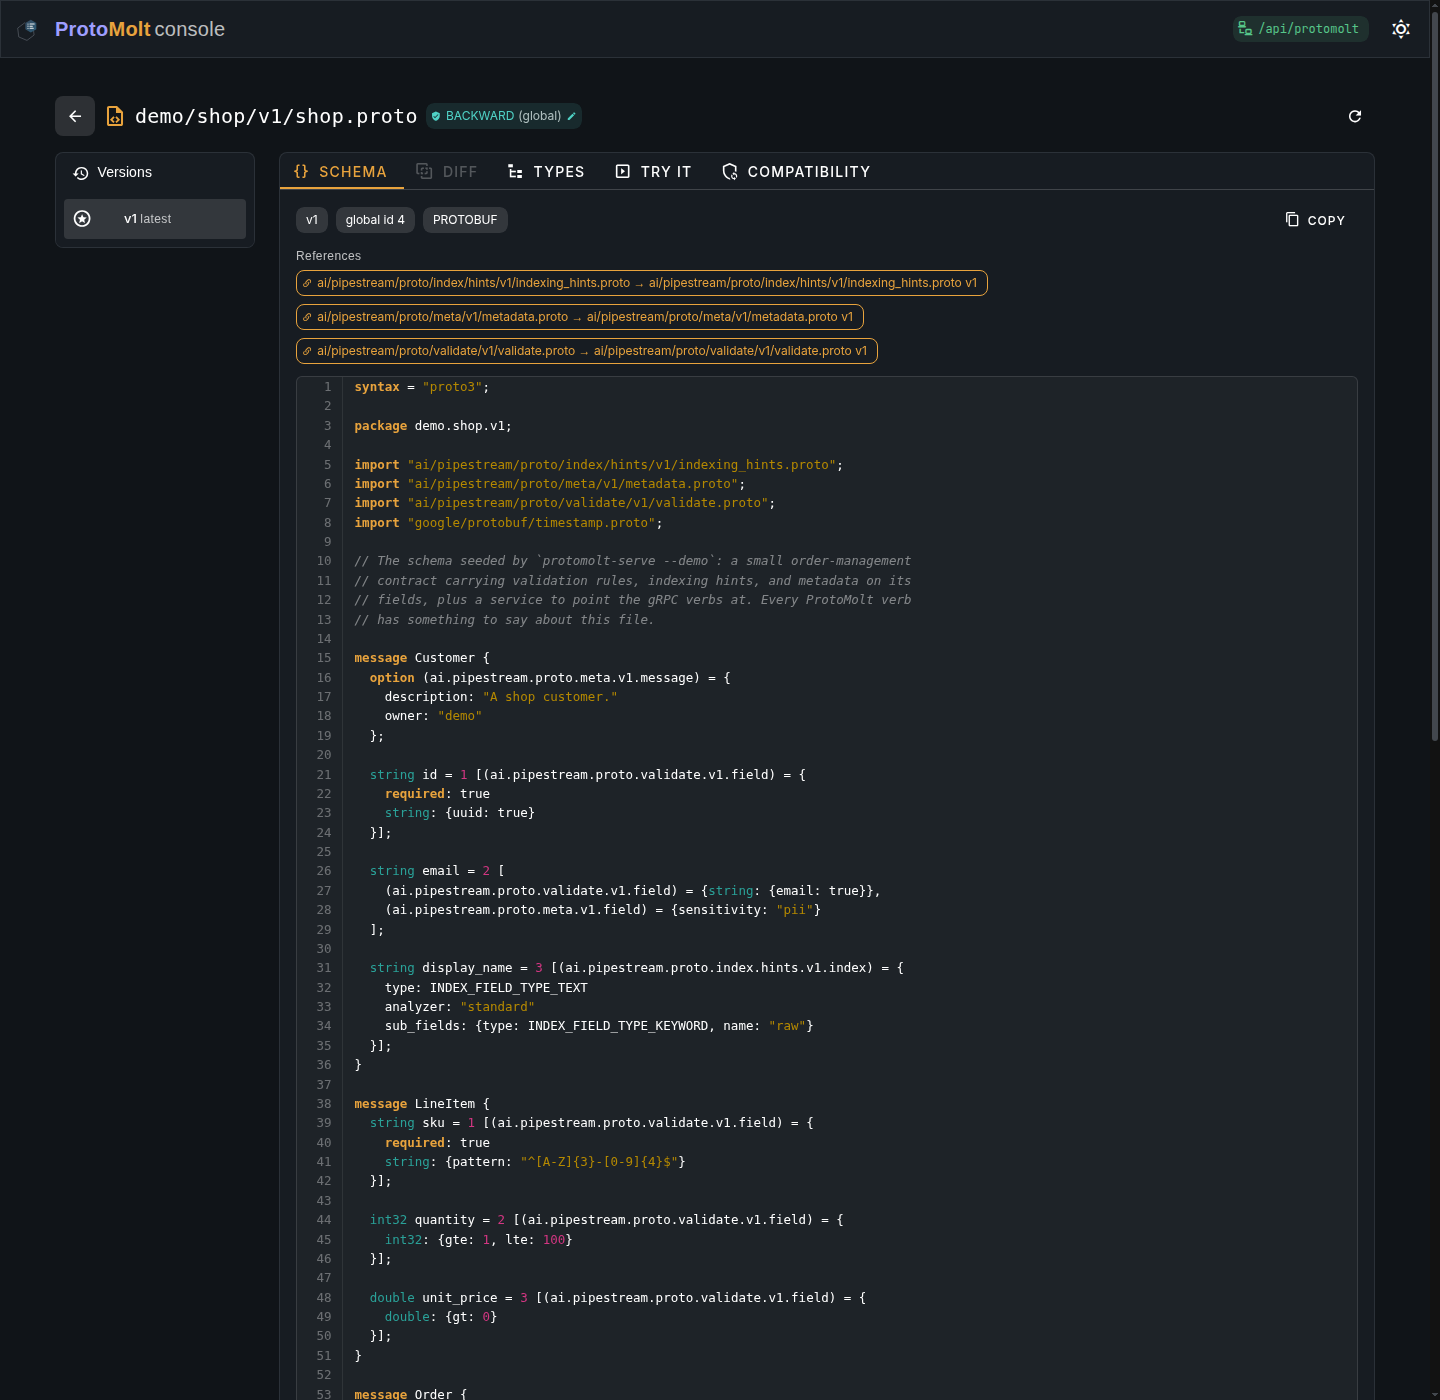
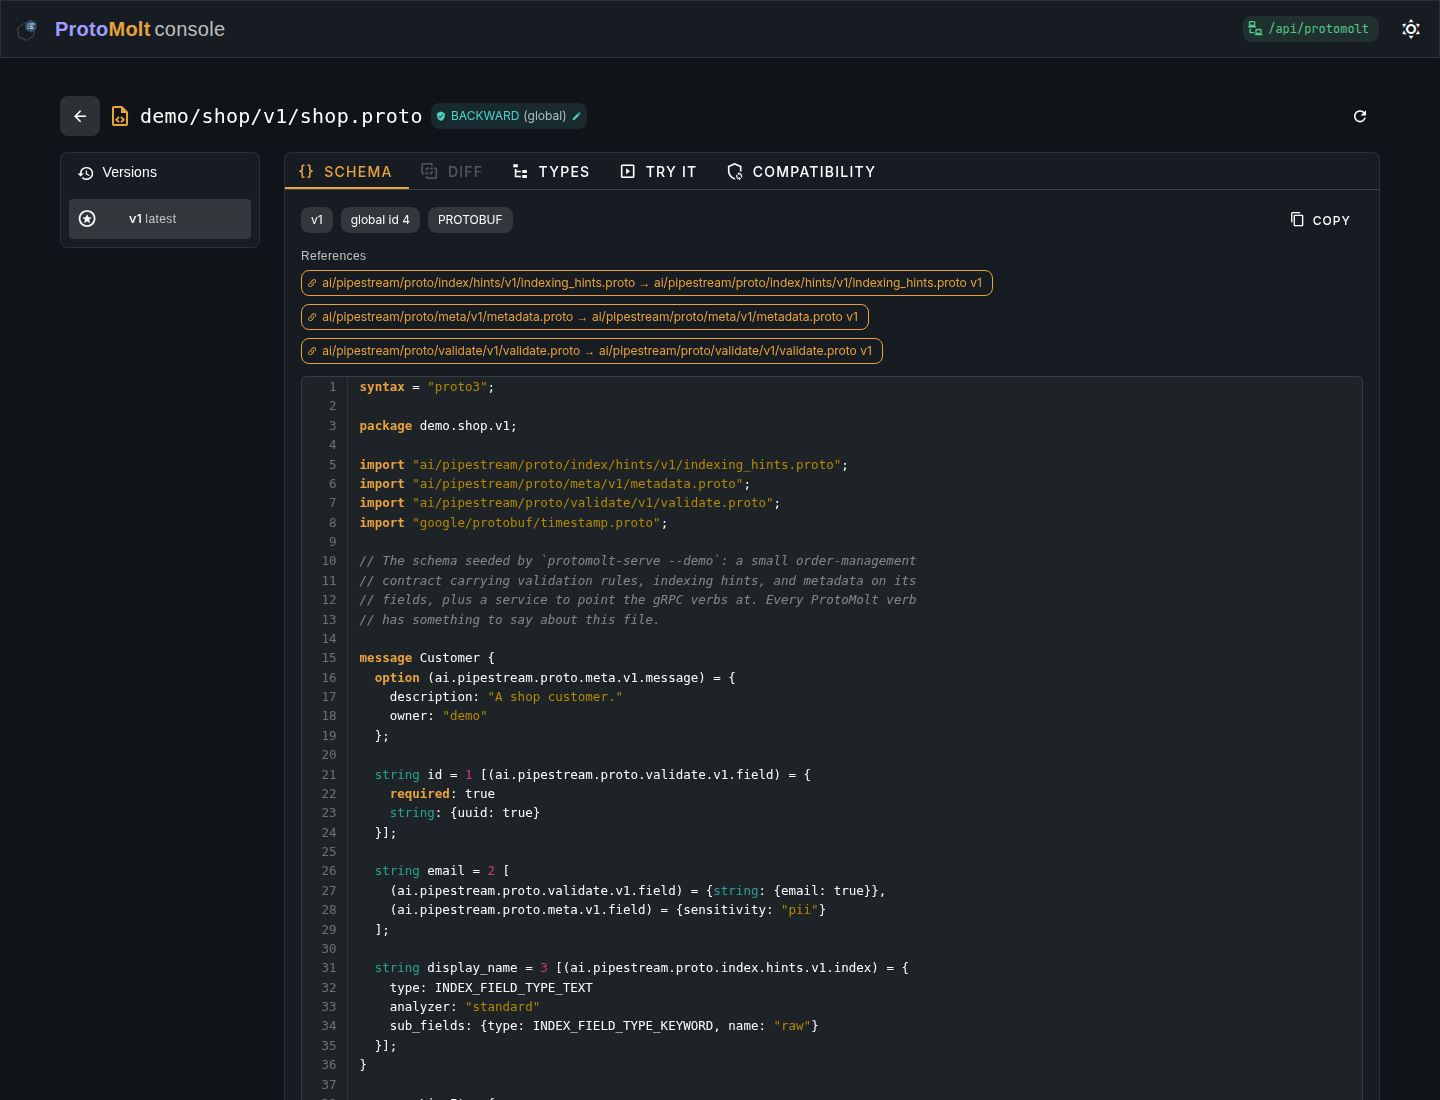
Show the console served from protomolt-serve at /console
Fresh screenshots from the live packaged server in demo mode: subjects
through the same-origin registry bridge, the schema view with references
and declared options, and the connect-a-service wizard, with the type
explorer and try-it form linked. Verb and module counts updated to
seventeen and fifty-one.

diff --git a/protomolt/index.html b/protomolt/index.html
@@ -444,22 +444,28 @@ var result  = checker.check(oldSources, newSources, CompatibilityMode.BACKWARD);
     implementation 'ai.pipestream:protomolt-registry-server'
     implementation 'ai.pipestream:protomolt-compat'
 }</code></pre>
-                <p class="proj-desc">One BOM aligns all forty-two modules. Pick the two you need today; the rest are there when you need them.</p>
+                <p class="proj-desc">One BOM aligns all fifty-one modules. Pick the two you need today; the rest are there when you need them.</p>
             </div>
         </section>
 
         <section class="block" id="console">
             <div class="wrap">
                 <h2>The console</h2>
-                <p class="lede">A schema-registry console ships in the repo: browse subjects and
-                    versions, explore every type's fields, diff versions, check compatibility
-                    before registering, and try messages against declared rules &mdash; all
-                    against any Confluent-compatible registry.</p>
+                <p class="lede">The console ships inside the server: run
+                    <code style="font-family: var(--mono); font-size: 0.92em;">docker run ghcr.io/ai-pipestream/protomolt-serve --demo</code>
+                    and open <code style="font-family: var(--mono); font-size: 0.92em;">/console</code>.
+                    Browse subjects and versions, explore every type's fields, diff versions,
+                    check compatibility before registering, try messages against declared
+                    rules, and point it at a live gRPC service to leave with working
+                    directions for agents and Kafka Connect &mdash; all against any
+                    Confluent-compatible registry.</p>
                 <p><a href="img/console-subjects.png"><img src="img/console-subjects.png" alt="ProtoMolt console: subjects view" style="max-width: 100%; border: 1px solid var(--rule); border-radius: 8px;"></a></p>
-                <p><a href="img/console-types.png"><img src="img/console-types.png" alt="ProtoMolt console: type explorer with field tables" style="max-width: 100%; border: 1px solid var(--rule); border-radius: 8px;"></a></p>
+                <p><a href="img/console-subject-detail.png"><img src="img/console-subject-detail.png" alt="ProtoMolt console: schema view with references and declared options" style="max-width: 100%; border: 1px solid var(--rule); border-radius: 8px;"></a></p>
+                <p><a href="img/console-connect.png"><img src="img/console-connect.png" alt="ProtoMolt console: connect-a-service wizard" style="max-width: 100%; border: 1px solid var(--rule); border-radius: 8px;"></a></p>
                 <div class="actions">
-                    <a class="btn" href="https://github.com/ai-pipestream/protomolt/tree/main/console">Run the console →</a>
-                    <a class="repo-link" href="img/console-subject-detail.png">the schema view</a>
+                    <a class="btn" href="https://github.com/ai-pipestream/protomolt/tree/main/console">The console in the repo →</a>
+                    <a class="repo-link" href="img/console-types.png">the type explorer</a>
+                    <a class="repo-link" href="img/console-try.png">the try-it form</a>
                 </div>
             </div>
         </section>
@@ -472,7 +478,7 @@ var result  = checker.check(oldSources, newSources, CompatibilityMode.BACKWARD);
                 </p>
                 <p class="project-body">
                     <code style="font-family: var(--mono); font-size: 0.92em;">protomolt-mcp</code>
-                    serves the whole toolkit over the Model Context Protocol: thirteen tools on
+                    serves the whole toolkit over the Model Context Protocol: seventeen tools on
                     plain-Java stdio, or over streamable HTTP from a running
                     <code style="font-family: var(--mono); font-size: 0.92em;">protomolt-serve</code>
                     &mdash; one process makes every agent on the network gRPC-aware, no local
@@ -514,7 +520,7 @@ var result  = checker.check(oldSources, newSources, CompatibilityMode.BACKWARD);
                     schemas, evaluate CEL, reflect, invoke, generate &mdash; is a named action
                     with a machine-readable input schema, and the catalog is now literally a gRPC
                     service: <code style="font-family: var(--mono); font-size: 0.92em;">ai.pipestream.protomolt.v1.ProtoMoltService</code>,
-                    thirteen typed RPCs defined in <code style="font-family: var(--mono); font-size: 0.92em;">.proto</code>.
+                    seventeen typed RPCs defined in <code style="font-family: var(--mono); font-size: 0.92em;">.proto</code>.
                     The server compiles its own definition at startup and serves it over dynamic
                     messages &mdash; no generated stubs anywhere &mdash; with server reflection
                     on, so grpcurl, any gRPC client, or ProtoMolt&rsquo;s own
@@ -523,7 +529,7 @@ var result  = checker.check(oldSources, newSources, CompatibilityMode.BACKWARD);
                 </p>
                 <p class="project-body">
                     One launcher, <code style="font-family: var(--mono); font-size: 0.92em;">protomolt-serve</code>,
-                    mounts the same thirteen verbs everywhere at once: gRPC with reflection, the
+                    mounts the same seventeen verbs everywhere at once: gRPC with reflection, the
                     JSON/REST gateway with a generated OpenAPI document, Swagger UI at
                     <code style="font-family: var(--mono); font-size: 0.92em;">/docs</code>, and
                     optionally the git-backed registry &mdash; every envelope identical across
